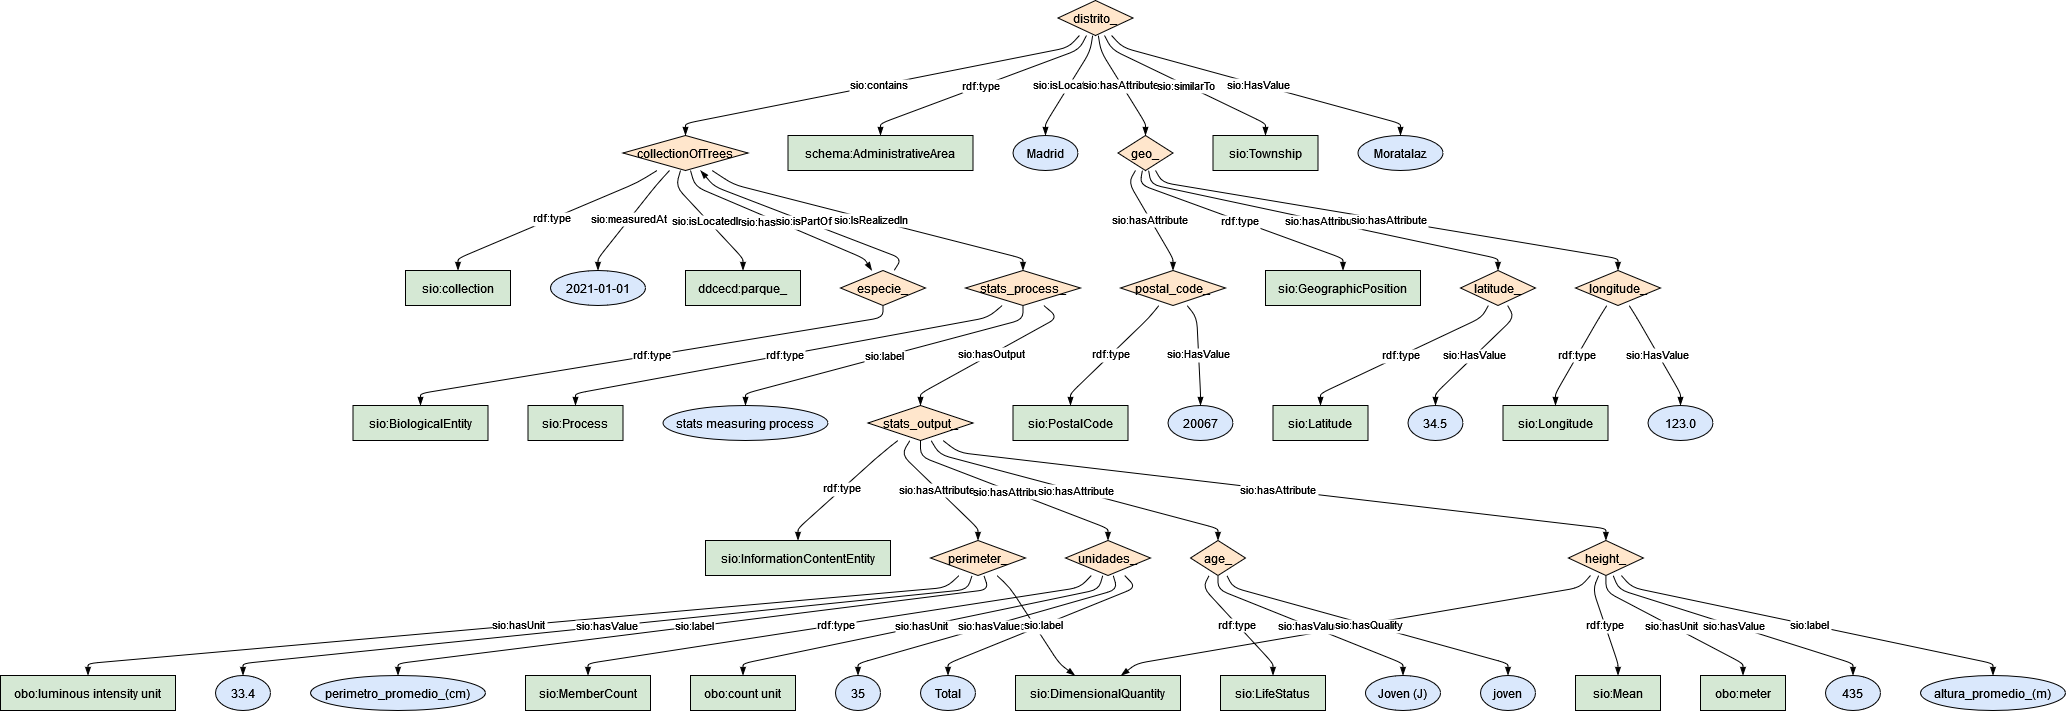
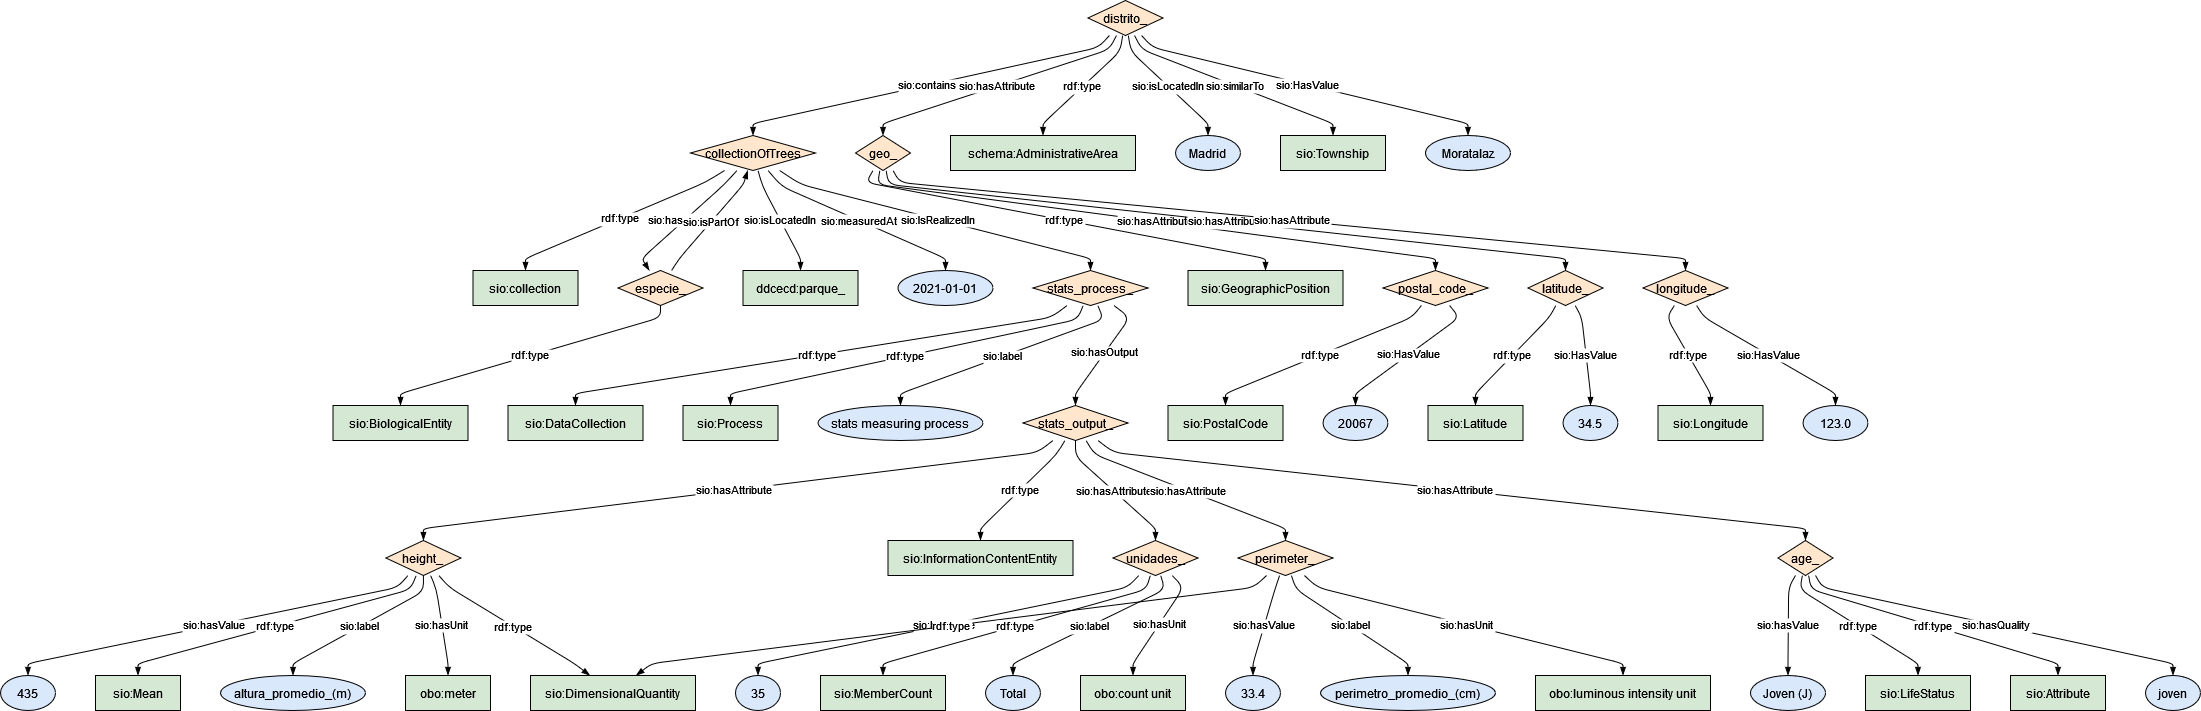
added notebook 4

diff --git a/notebooks/4-EstadoZonasVerdesDistritosCalles.md b/notebooks/4-EstadoZonasVerdesDistritosCalles.md
@@ -1,6 +1,6 @@
 ### Semantic model figure
 
-This module describes the data elements related to tree inventory dataset.
+This module describes the data elements related to [tree inventory dataset](https://github.com/carlosug/opengov-kg/blob/main/etl/data/inputs/preprocessing). It covers the ESGREEN level of Estado Zonas Verdes Distritos y Calles. The data specification can e found on the Open Data Madrid Platform at this [link](https://datos.madrid.es/FWProjects/egob/Catalogo/MedioAmbiente/ZonasVerdes/Ficheros/Informaci%C3%B3n%20de%20estado%20del%20arbolado%20en%20parques%20hist%C3%B3ricos%20singulares%20y%20forestales%20en%202019.pdf).
 
 
 <p align="center">
@@ -57,7 +57,7 @@ This module describes the data elements related to tree inventory dataset.
     sio:hasMember :especie_ ;
     sio:measuredAt "2021"^^xsd:date .
 
-:stats_process_ a sio:Process ;
+:stats_process_ a sio:Process, sio:DataCollection ;
     sio:label "stats measuring process"^^xsd:string ;
     sio:hasOutput :stats_output_ .
 
@@ -77,7 +77,7 @@ This module describes the data elements related to tree inventory dataset.
     sio:hasValue "35"^^xsd:integer ;
     sio:hasUnit obo:UO_0000189 .
 
-:age_ a sio:LifeStatus ;
+:age_ a sio:LifeStatus, sio:Attribute ;
     sio:hasQuality "joven" ;
     sio:hasValue "Joven (J)"^^xsd:string .
 
